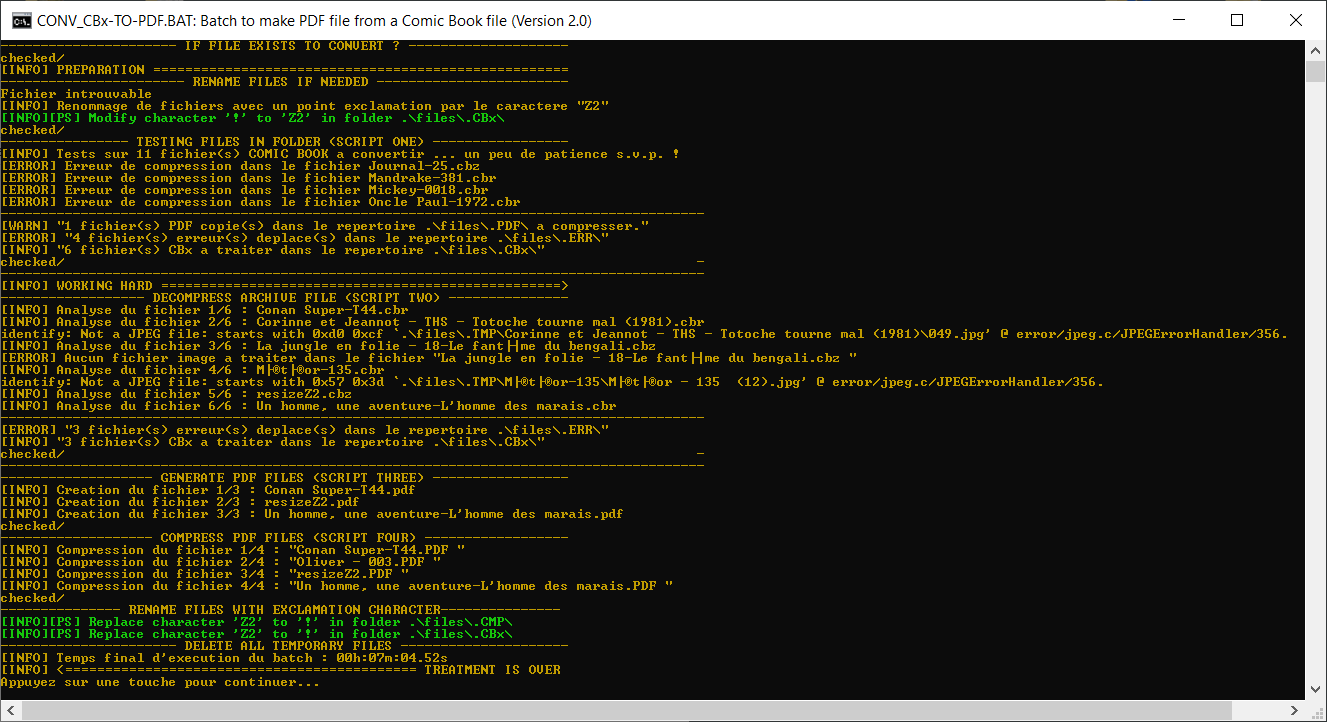
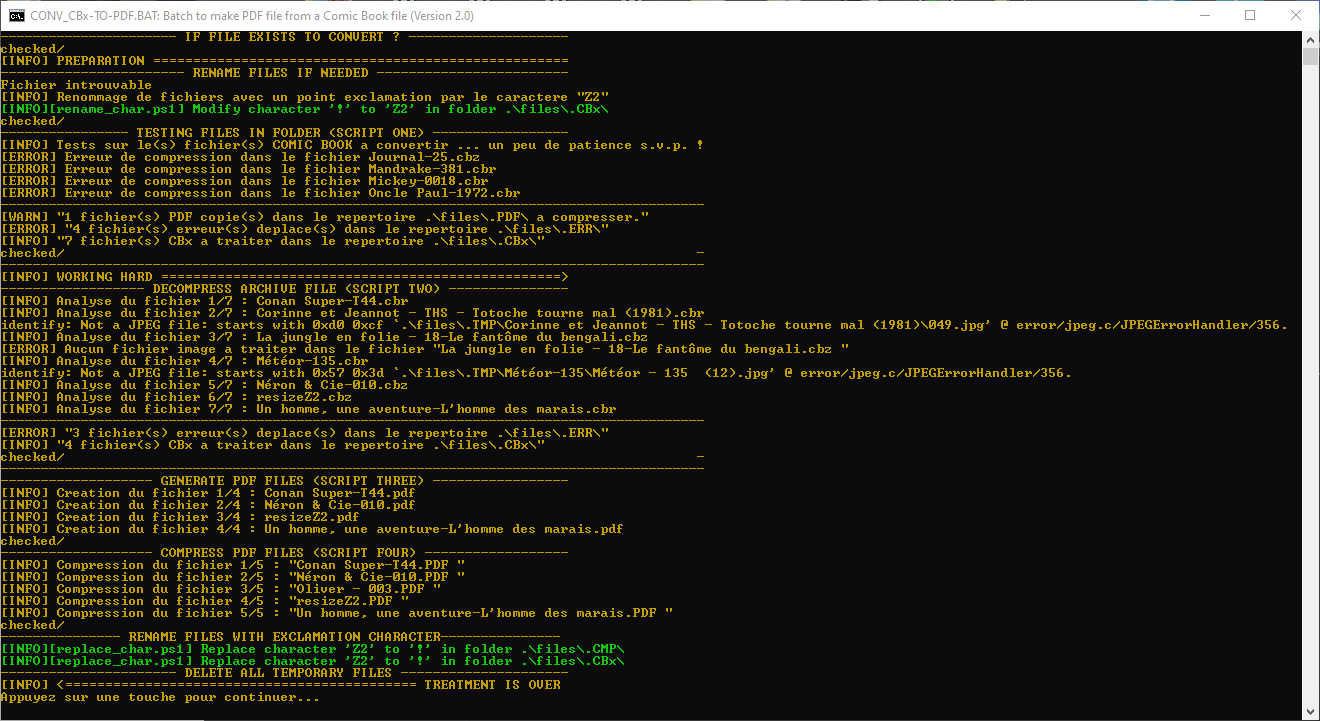
ComicBook script batch converter V2.1 (fixed)

Changed region(s): [[0.0, 0.0, 1.0, 1.0]]

diff --git a/ComicBook-batch-converter/README.md b/ComicBook-batch-converter/README.md
@@ -37,7 +37,7 @@ The script offers the following features:
 5. Decompress file from .CBx/ into the folder .TMP/ and test graphic elements plus delete other inside it (Script two)
 5. Make a pdf file and put it into the folder .PDF/ (Script three)
 7. Compress the pdf file into the folder .CMP/ (Script four)
-8. Delete temporary files and display elapsed time
+8. Delete temporary files (.PDF/ and .TMP/ folders) and display elapsed time
 
 ## Usage
 
@@ -177,6 +177,7 @@ graph RL;
 - Ghostscript
   - [x] compress pdf files in compatibility level 1.5
   - [x] compress mono or color image resolution in 72 dpi
+  - [ ] manage issues if exist - need test files
 - CONV_CBx-TO-PDF.BAT
   - [x] check first using (delete todelete.txt file)
   - [x] check tools available before
@@ -185,38 +186,12 @@ graph RL;
   - [x] generate list of file for treatment (listeCB.txt file)
   - [x] treatment of n file with loop indicated (listeCB.txt file)
   - [x] indicate which file in treatment (PictureListToDo.txt file)
-  - [x] delete files which should not included inside the PDF file with extension or filename like:
-    - [x] *.1
-    - [x] *.tif
-    - [x] *.pdf
-    - [x] *.rtf
-    - [x] *.htm*
-    - [x] *.txt
-    - [x] *.xml
-    - [x] *.sfv
-    - [x] *.nfo
-    - [x] *.afi
-    - [x] *.old
-    - [x] *.csv*
-    - [x] *.db
-    - [x] *.url
-    - [x] *.tmp
-    - [x] *.rar
-    - [x] *.r0*
-    - [x] *.r1*
-    - [x] *.alv
-    - [x] *.zip
-    - [x] *.sfv
-    - [x] *.webloc
-    - [x] descript.ion
-    - [x] .directory
-    - [x] Thumbs.db
-    - [x] .DS_Store folder and contents from Mac
-    - [x] detect a non image file with a proper list designed
+  - [x] delete file(s) who are not pictures files inside the CBR or CBZ file with specifical extension or filename (extensions.dat)
   - [x] detect if no file decompressed
   - [x] remove / delete old folder temporary unused after
+  - [ ] manage doublon files
 - Create tests with bad files
-  - [x] make non regression tests
+  - [x] make non regression tests (90%)
 
 ## License
 
